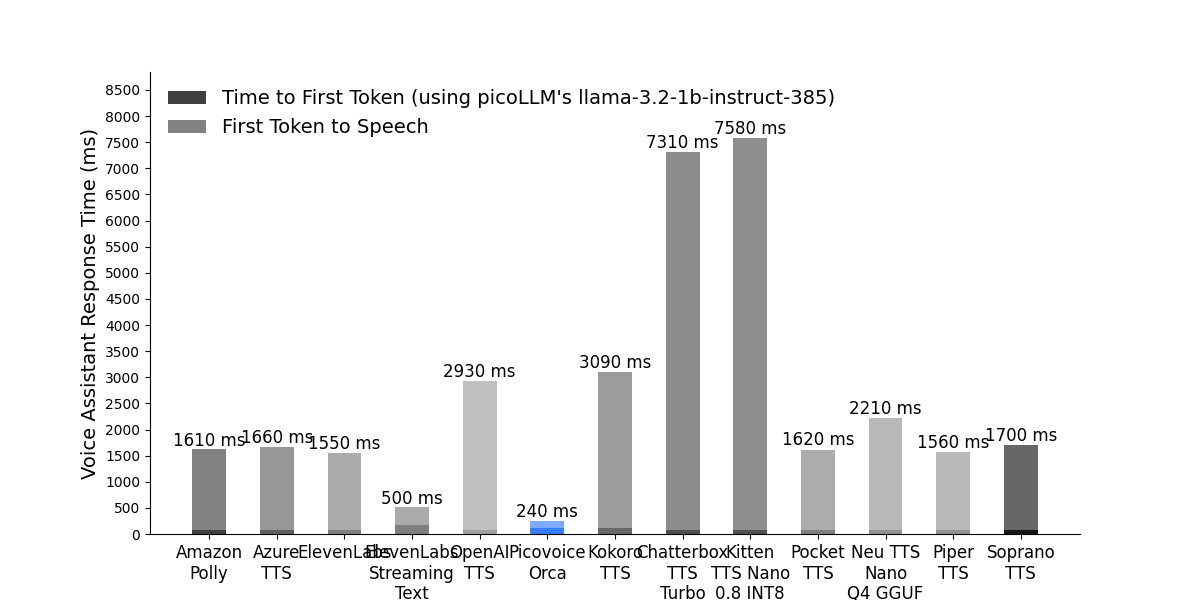
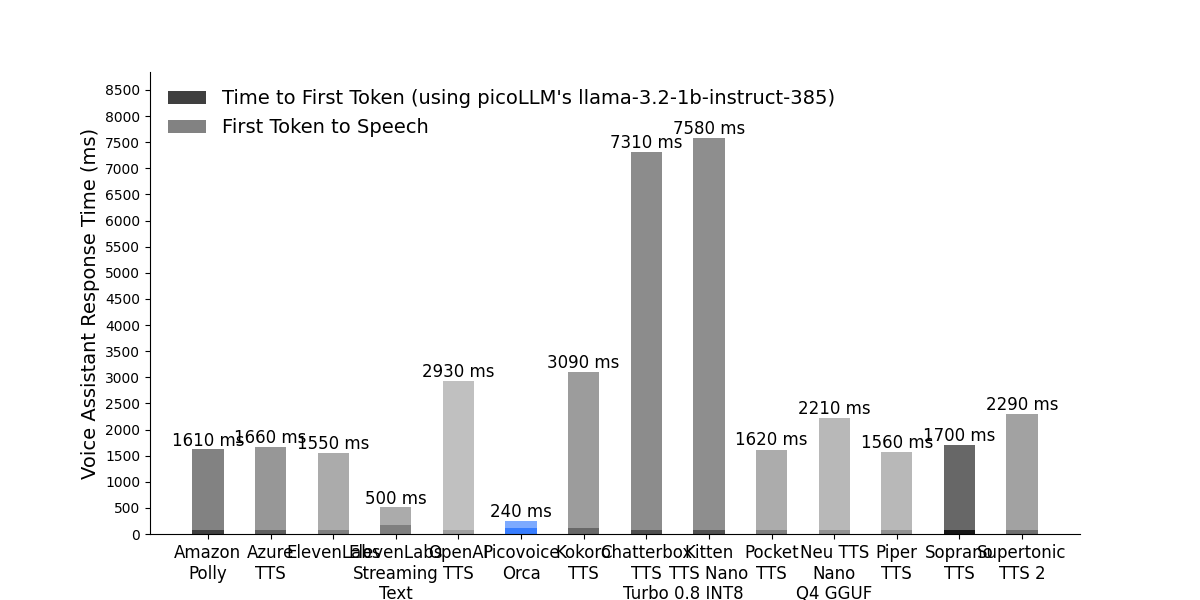
Added Supertonic-TTS-2 to latency benchmark.

Changed region(s): [[0.1233, 0.18, 0.8942, 1.0]]

diff --git a/tts/_tts.py b/tts/_tts.py
@@ -44,6 +44,7 @@ class Synthesizers(Enum):
     NEU_TTS_NANO_Q4_GGUF = "neu_tts_nano_q4_gguf"  # TODO (Ted): There is actually another one "Neu-TTS-Air".
     PIPER_TTS = "piper_tts"
     SOPRANO_TTS = "soprano_tts"
+    SUPERTONIC_TTS_2 = "supertonic_tts_2"
 
 class Synthesizer:
     def __init__(
@@ -106,6 +107,7 @@ class Synthesizer:
             Synthesizers.NEU_TTS_NANO_Q4_GGUF: NeuTTSNanoSynthesizer,
             Synthesizers.PIPER_TTS: PiperSynthesizer,
             Synthesizers.SOPRANO_TTS: SopranoSynthesizer,
+            Synthesizers.SUPERTONIC_TTS_2: Supertonic2Synthesizer,
         }
 
         if engine not in subclasses:
@@ -851,6 +853,71 @@ class SopranoSynthesizer(Synthesizer):
                 chunk = chunk[0]
 
             self._audio_sink.add(data=chunk)  # TODO (Ted): Check if data=audio is desired.
+
+        self._timer.log_time_last_audio()
+
+    def __str__(self) -> str:
+        return f"{self.NAME}"
+
+
+class Supertonic2Synthesizer(Synthesizer):
+    NAME = "Supertonic TTS 2"
+    SAMPLE_RATE = 44100
+    AUDIO_ENCODING = AudioEncodings.INT16  # TODO (Ted): Check this. It's likely wrong.
+    ONNX_DIR = "/home/pear/work/gitlab/supertonic/assets/onnx"
+    USE_GPU = False
+    VOICE_STYLE_PATHS = ["/home/pear/work/gitlab/supertonic/py/assets/voice_styles/M1.json"]
+    LANGUAGE_CODE = "en"
+    TOTAL_STEP = 5
+    SPEED = 1.05
+
+    def __init__(
+            self,
+            **kwargs: Any,
+    ) -> None:
+        super().__init__(
+                sample_rate=self.SAMPLE_RATE,
+                audio_encoding=self.AUDIO_ENCODING,
+                **kwargs,
+        )
+
+        import sys
+        sys.path.append("/home/pear/work/gitlab/")
+
+        from supertonic.py.helper import load_text_to_speech, load_voice_style
+
+        self._text_to_speech = load_text_to_speech(
+                self.ONNX_DIR,
+                self.USE_GPU,
+        )
+        self._style = load_voice_style(
+                self.VOICE_STYLE_PATHS,
+                verbose=True,
+        )
+
+    def synthesize(
+            self,
+            text_stream: Generator[
+                str,
+                None,
+                None,
+            ],
+    ):
+        text = self._read_text_stream(text_stream)
+
+        self._timer.maybe_log_time_first_synthesis_request()
+
+        wav, duration = self._text_to_speech(
+            text,
+            self.LANGUAGE_CODE,
+            self._style,
+            self.TOTAL_STEP,
+            self.SPEED,
+        )
+
+        self._timer.maybe_log_time_first_audio()
+
+        self._audio_sink.add(data=np.squeeze(wav, axis=0))  # TODO (Ted): Check if data=audio is desired.
 
         self._timer.log_time_last_audio()
 

diff --git a/plot_results.py b/plot_results.py
@@ -36,6 +36,7 @@ COLOR_POCKET_TTS = rgb_from_hex("#808080")
 COLOR_NEU_TTS_NANO_Q4_GGUF = rgb_from_hex("#929292")
 COLOR_PIPER_TTS = rgb_from_hex("#929292")
 COLOR_SOPRANO_TTS = rgb_from_hex("#151515")
+COLOR_SUPERTONIC_TTS_2 = rgb_from_hex("#707070")
 
 ENGINE_PRINT_NAMES = {
     Synthesizers.AMAZON_POLLY: 'Amazon\nPolly',
@@ -51,6 +52,7 @@ ENGINE_PRINT_NAMES = {
     Synthesizers.NEU_TTS_NANO_Q4_GGUF: "Neu TTS\nNano\nQ4 GGUF",
     Synthesizers.PIPER_TTS: "Piper\nTTS",
     Synthesizers.SOPRANO_TTS: "Soprano\nTTS",
+    Synthesizers.SUPERTONIC_TTS_2: "Supertonic\nTTS 2",
 }
 
 ENGINE_COLORS = {
@@ -67,6 +69,7 @@ ENGINE_COLORS = {
     Synthesizers.NEU_TTS_NANO_Q4_GGUF: COLOR_NEU_TTS_NANO_Q4_GGUF,
     Synthesizers.PIPER_TTS: COLOR_PIPER_TTS,
     Synthesizers.SOPRANO_TTS: COLOR_SOPRANO_TTS,
+    Synthesizers.SUPERTONIC_TTS_2: COLOR_SUPERTONIC_TTS_2,
 }
 
 
